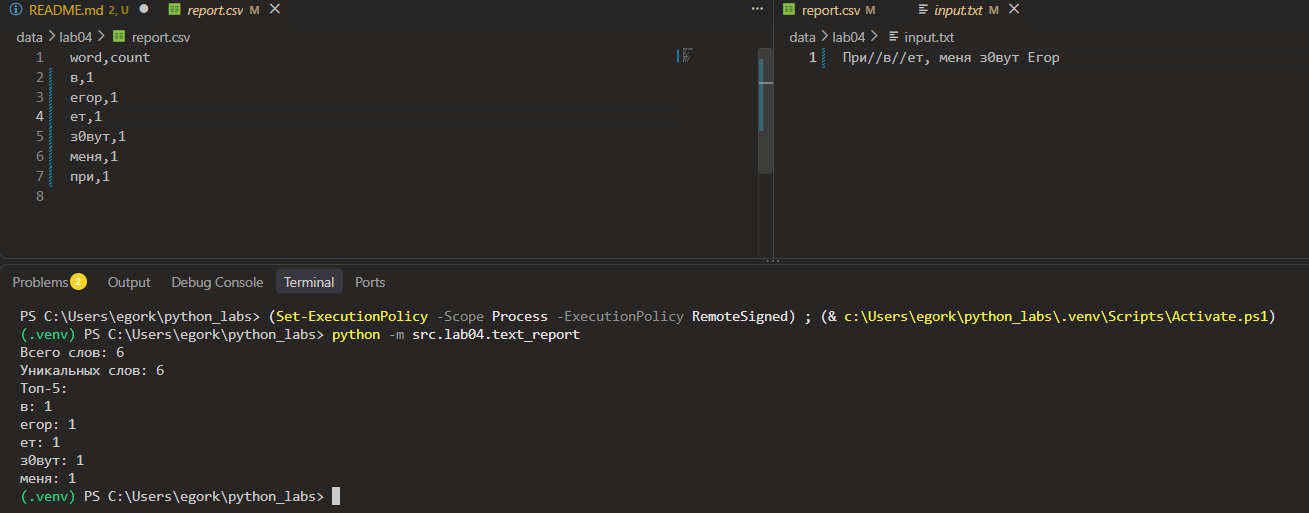
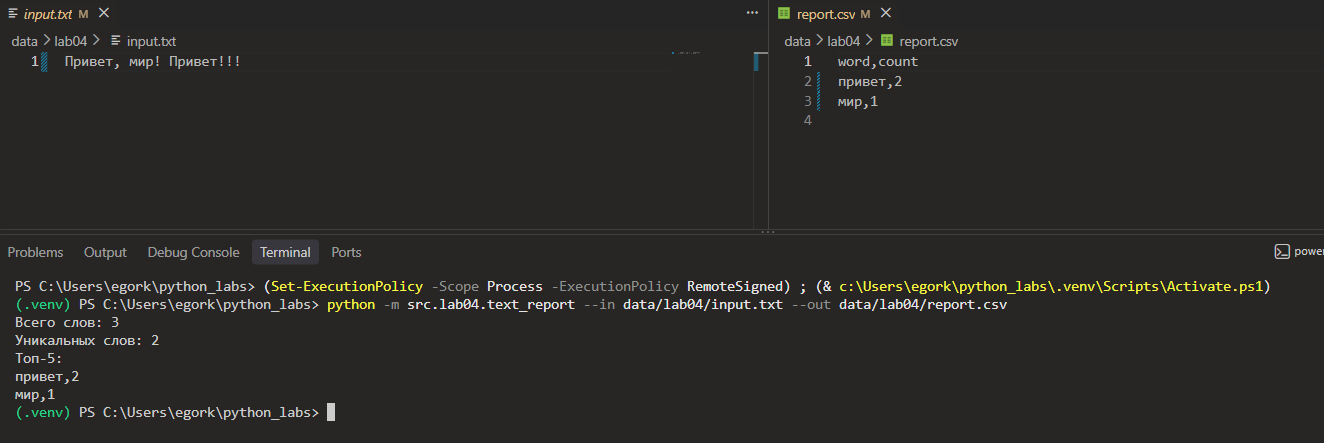
lab04

diff --git a/src/lab04/text_report.py b/src/lab04/text_report.py
@@ -1,38 +1,46 @@
+import argparse
+from pathlib import Path
 from src.lab04.io_txt_csv import read_text, write_csv
 from src.lib.text import normalize, tokenize, count_freq, top_n
 
-input = "data/lab04/input.txt"
-output = "data/lab04/report.csv"
-encode = "utf-8"
-
-
-def sorted_word_counts(freq: dict[str, int]) -> list[tuple[str, int]]:
-    return sorted(freq.items(), key=lambda pair: (-pair[1], pair[0]))
-
-
 def main():
+    parser = argparse.ArgumentParser()
+
+    parser.add_argument(
+        "--in",
+        dest="input_file",
+        type=Path,
+        required=True,
+    )
+
+    parser.add_argument(
+        "--out",
+        dest="output_file",
+        type=Path,
+        required=True,
+    )
+
+    args = parser.parse_args()
+
     try:
-        raw_text = read_text(input, encoding=encode)
+        raw_text = read_text(args.input_file, encoding="utf-8")
     except FileNotFoundError:
-        print(f"Ошибка: файл не найден: {input}")
+        raise FileNotFoundError(f"Ошибка: файл не найден: {args.input_file}")
 
-    normalized_text = normalize(raw_text)
-    tokenized_text = tokenize(normalized_text)
-    total_words = len(tokenized_text)
+    norm_text = normalize(raw_text)
+    token_text = tokenize(norm_text)
+    word_freq = count_freq(token_text)
 
-    freq = count_freq(tokenized_text)
-    unique_words = len(freq)
+    words_num = len(token_text)
+    unique_num = len(word_freq)
+    top_5 = top_n(word_freq)
 
-    all_rows = sorted_word_counts(freq)
-    top5 = top_n(freq, n=5)
+    all_rows = sorted(word_freq.items(), key=lambda x: (-x[1], x[0]))
+    top_pyat = "\n".join([",".join([i[0], str(i[1])]) for i in top_5])
 
-    write_csv(all_rows, output, header=("word", "count"))
-
-    print(f"Всего слов: {total_words}")
-    print(f"Уникальных слов: {unique_words}")
-    print("Топ-5: ")
-    for word, count in top5:
-        print(f"{word}: {count}")
+    write_csv(all_rows, args.output_file, header=("word", "count"))
+    
+    print(f"Всего слов: {words_num}\nУникальных слов: {unique_num}\nТоп-5: \n{top_pyat}")
 
 
 if __name__ == "__main__":

diff --git a/src/lab04/io_txt_csv.py b/src/lab04/io_txt_csv.py
@@ -31,9 +31,9 @@ def read_text(path: str | Path,
         with open(path, "r", encoding=encoding) as text:
             return text.read()
     except FileNotFoundError:
-        return "Файл не найден!"
+        raise FileNotFoundError("Файл не найден!")
     except UnicodeDecodeError:
-        return "Ошибка кодировки! Попробуйте указать encoding='utf-8'"
+        raise UnicodeDecodeError("Ошибка кодировки! Попробуйте указать encoding='utf-8'")
 
 
 def write_csv(rows: Iterable[Sequence], 

diff --git a/src/lib/text.py b/src/lib/text.py
@@ -8,7 +8,6 @@ def normalize(text: str, *, casefold: bool = True, yo2e: bool = True) -> str:
 
     return " ".join(text)
 
-test = "2025 год"
 #print(f"Ввод: {test}")
 #print(f"Вывод: {normalize(test)}")
 

diff --git a/src/lab04/README.md b/src/lab04/README.md
@@ -22,9 +22,10 @@ def read_text(path: str | Path,
     формат кодировки, можно передать его явно, например:
         read_text("data/input.txt", encoding="cp1251")
 
-    Если файл не найден - функция выводит что файл не найден.
+    Если файл не найден - функция не перехватывает ошибку,
+    а даёт ей "всплыть" наружу как FileNotFoundError.
     Если кодировка не подходит к содержимому файла - аналогично
-    функция напишет об этом.
+    всплывает UnicodeDecodeError.
 
     Если файл пустой - возвращается пустая строка "".
     """
@@ -34,9 +35,9 @@ def read_text(path: str | Path,
         with open(path, "r", encoding=encoding) as text:
             return text.read()
     except FileNotFoundError:
-        return "Файл не найден!"
+        raise FileNotFoundError("Файл не найден!")
     except UnicodeDecodeError:
-        return "Ошибка кодировки! Попробуйте указать encoding='utf-8'"
+        raise UnicodeDecodeError("Ошибка кодировки! Попробуйте указать encoding='utf-8'")
 ```
 
 ---
@@ -130,29 +131,53 @@ def sorted_word_counts(freq: dict[str, int]) -> list[tuple[str, int]]:
 Код представляет собой функцию main(), которая выполняет полный цикл анализа текста: сначала читает файл (с обработкой ошибки, если файл не найден), затем очищает и разбивает текст на отдельные слова. Далее она подсчитывает общее количество слов, количество уникальных слов и частоту встречаемости каждого. Полный отсортированный список слов с частотами сохраняется в CSV-файл, а краткая статистика (всего слов, уникальных и топ-5 самых частых) выводится на экран.
 
 ```python
+import argparse
+from pathlib import Path
+from src.lab04.io_txt_csv import read_text, write_csv
+from src.lib.text import normalize, tokenize, count_freq, top_n
+
 def main():
+    parser = argparse.ArgumentParser()
+
+    parser.add_argument(
+        "--in",
+        dest="input_file",
+        type=Path,
+        required=True,
+    )
+
+    parser.add_argument(
+        "--out",
+        dest="output_file",
+        type=Path,
+        required=True,
+    )
+
+    args = parser.parse_args()
+
     try:
-        raw_text = read_text(input, encoding=encode)
+        raw_text = read_text(args.input_file, encoding="utf-8")
     except FileNotFoundError:
-        print(f"Ошибка: файл не найден: {input}")
+        raise FileNotFoundError(f"Ошибка: файл не найден: {args.input_file}")
 
-    normalized_text = normalize(raw_text)
-    tokenized_text = tokenize(normalized_text)
-    total_words = len(tokenized_text)
+    norm_text = normalize(raw_text)
+    token_text = tokenize(norm_text)
+    word_freq = count_freq(token_text)
 
-    freq = count_freq(tokenized_text)
-    unique_words = len(freq)
+    words_num = len(token_text)
+    unique_num = len(word_freq)
+    top_5 = top_n(word_freq)
 
-    all_rows = sorted_word_counts(freq)
-    top5 = top_n(freq, n=5)
+    all_rows = sorted(word_freq.items(), key=lambda x: (-x[1], x[0]))
+    top_pyat = "\n".join([",".join([i[0], str(i[1])]) for i in top_5])
 
-    write_csv(all_rows, output, header=("word", "count"))
-
-    print(f"Всего слов: {total_words}")
-    print(f"Уникальных слов: {unique_words}")
-    print("Топ-5: ")
-    for word, count in top5:
-        print(f"{word}: {count}")
+    write_csv(all_rows, args.output_file, header=("word", "count"))
+    
+    print(f"Всего слов: {words_num}\nУникальных слов: {unique_num}\nТоп-5: \n{top_pyat}")
 ```
 
 ![test3](/images/lab04/text_report.png)
+
+Если входного файла не существует, всплывает ошибка
+
+![test3](/images/lab04/text_report_1.png)
